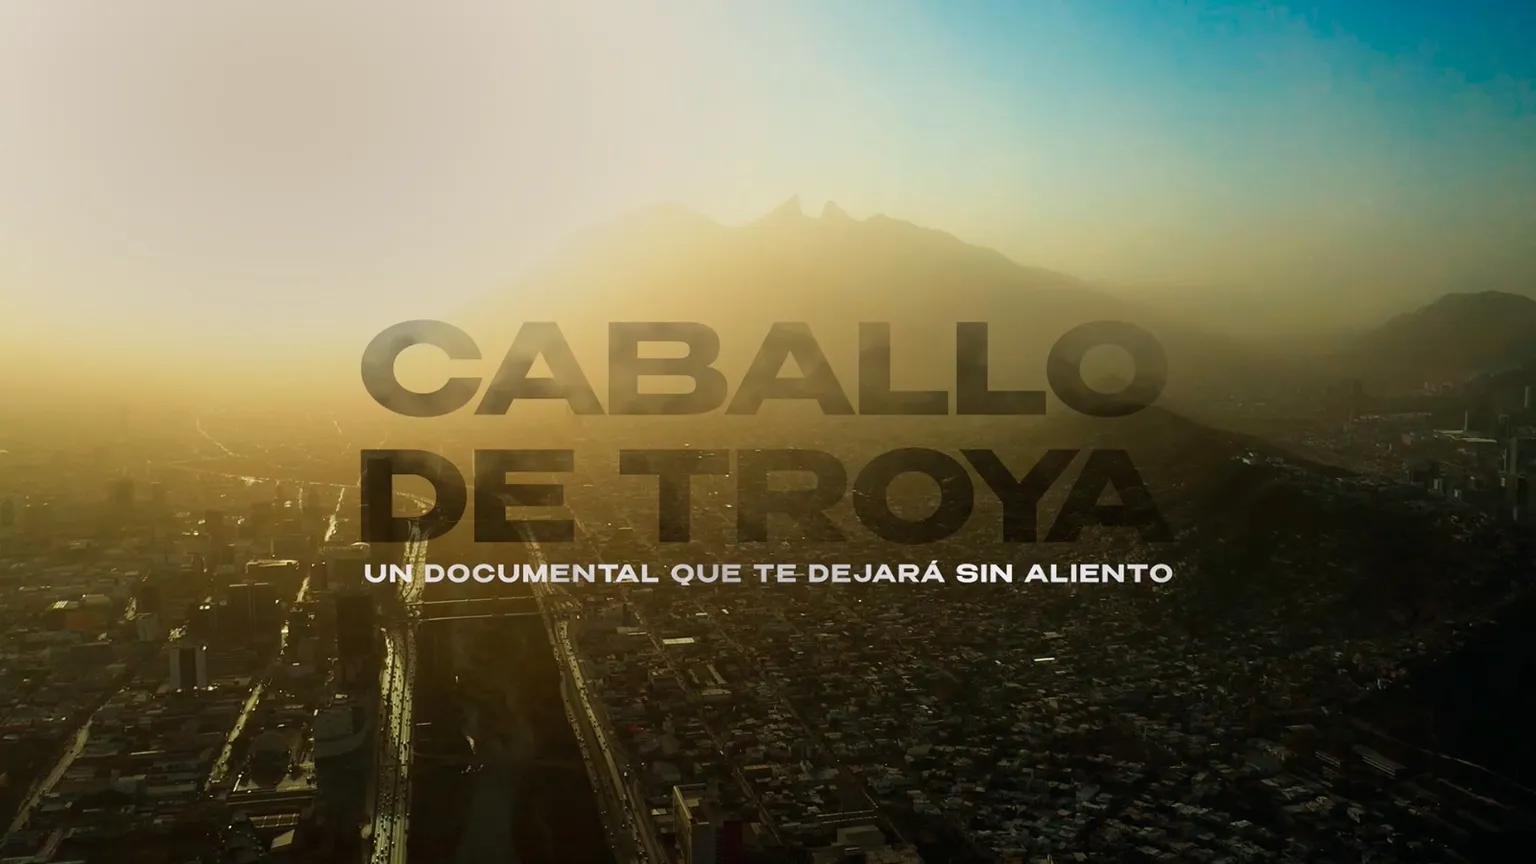
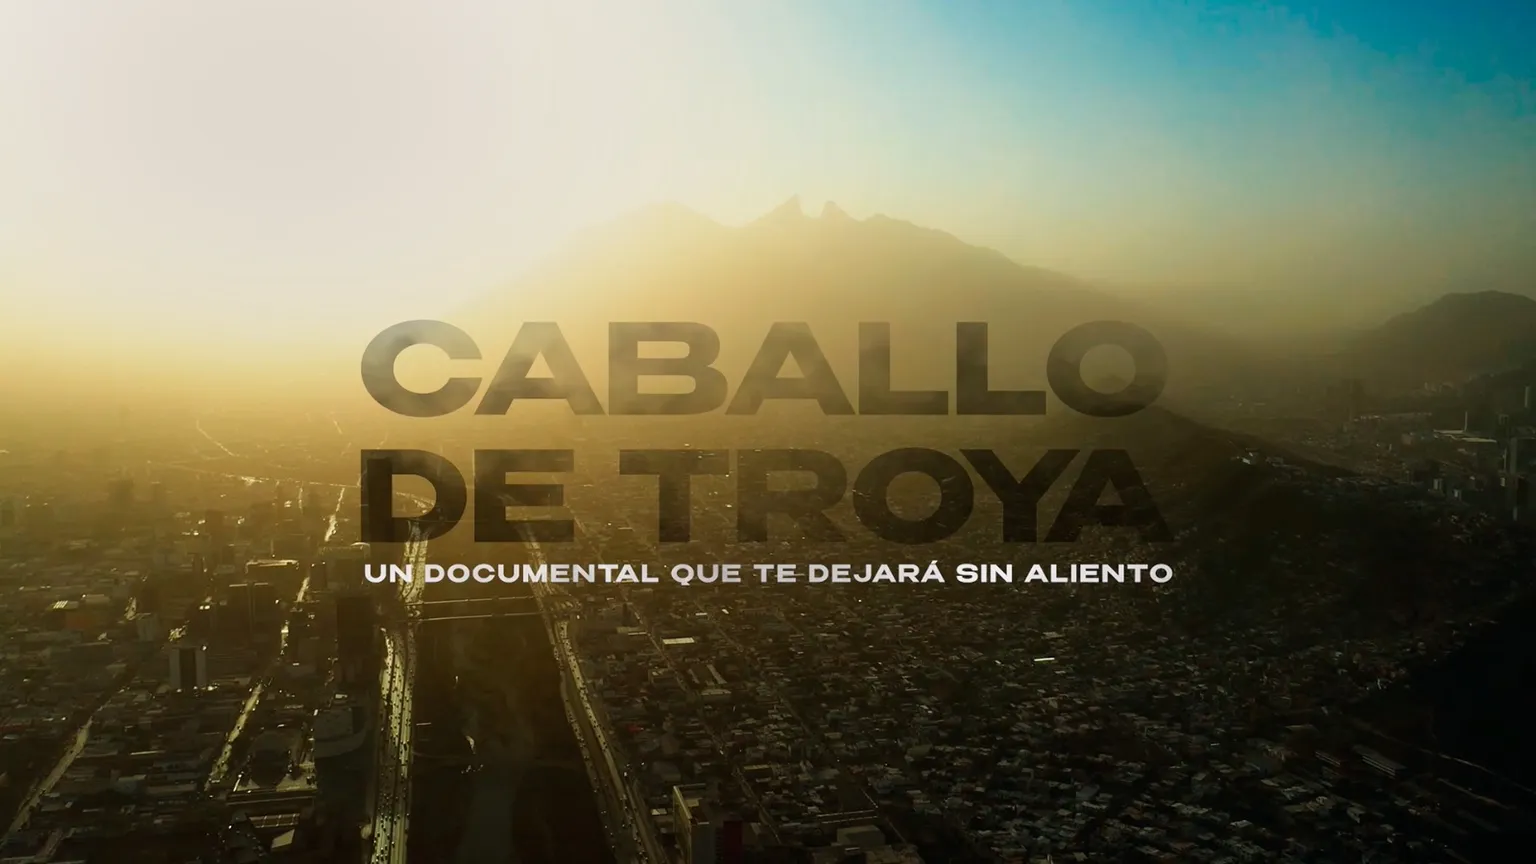
content(publicaciones): lighter still glare toning on the Caballo de Troya cover (~15%)
Link card d=36.

Changed region(s): [[0.0, 0.0, 0.375, 0.375]]

diff --git a/app/publicaciones/data.ts b/app/publicaciones/data.ts
@@ -505,7 +505,7 @@ function nodeText(node: React.ReactNode): string {
 // A publication's link card (app/api/og/publicaciones/[slug]). d= is its
 // design version: bump it on any change, chat apps cache per image URL.
 export function linkCard(p: Publicacion) {
-  return { url: `/api/og/publicaciones/${p.slug}?d=35`, width: 1200, height: 630, alt: p.title };
+  return { url: `/api/og/publicaciones/${p.slug}?d=36`, width: 1200, height: 630, alt: p.title };
 }
 
 // The link to share an item: its page here (the library opens every item's
